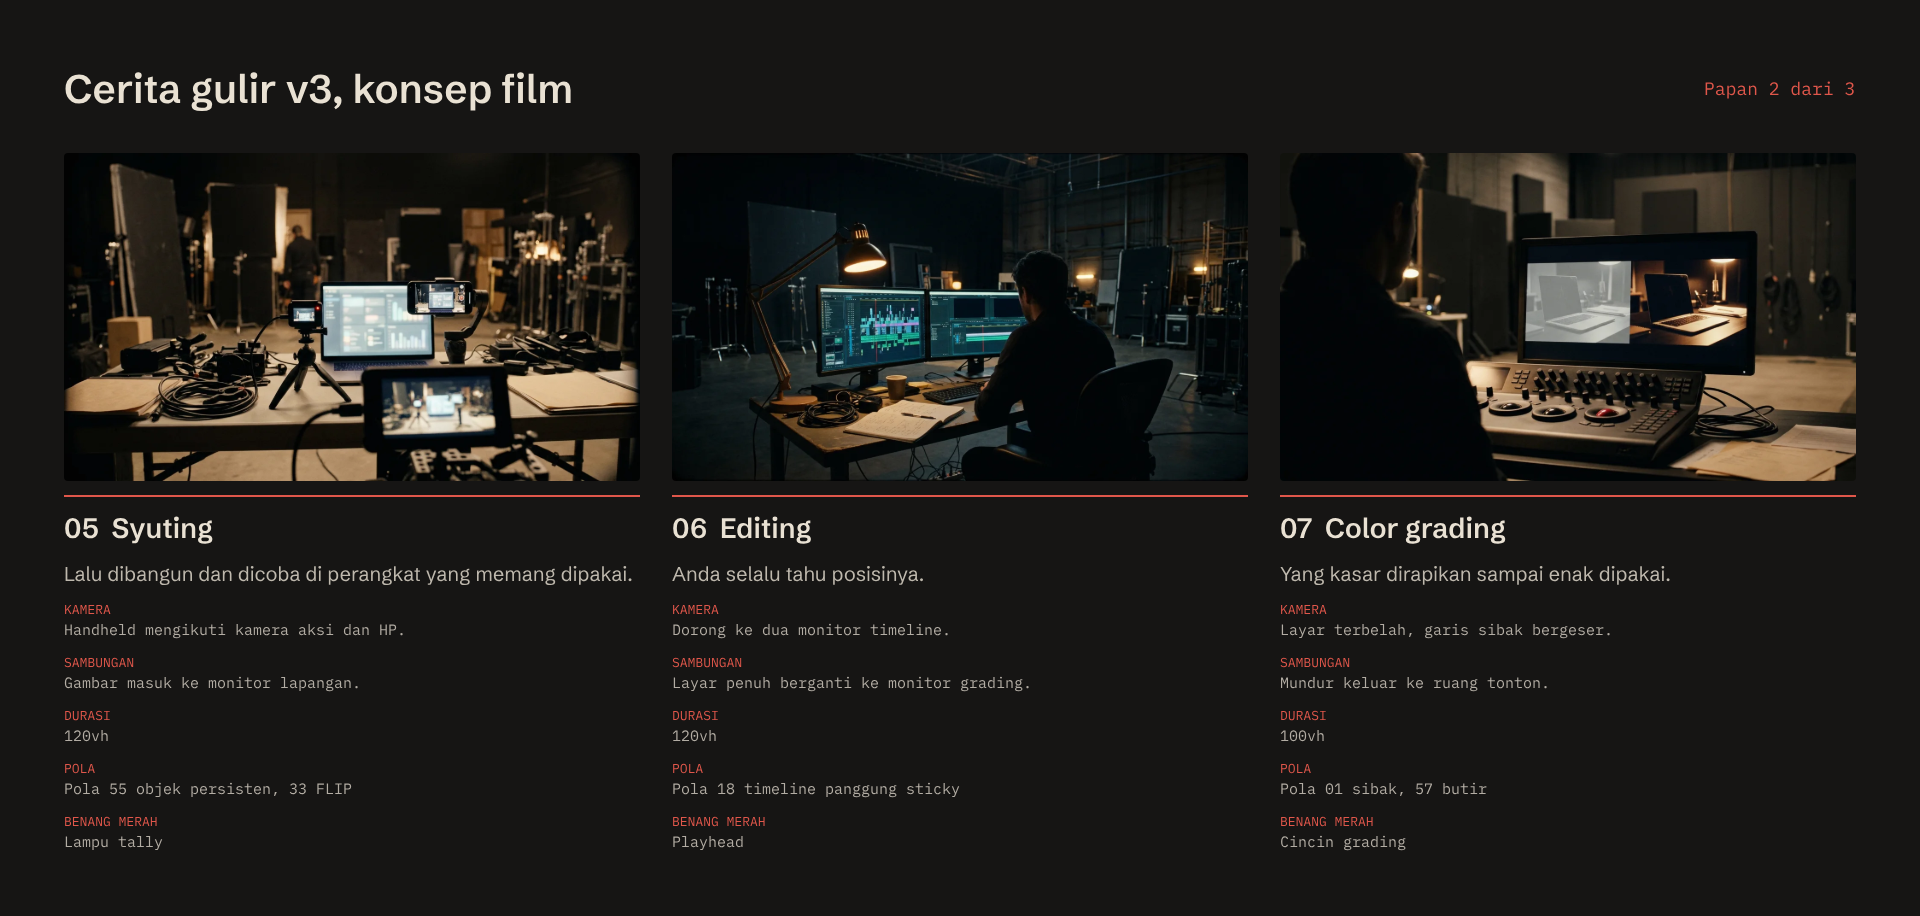
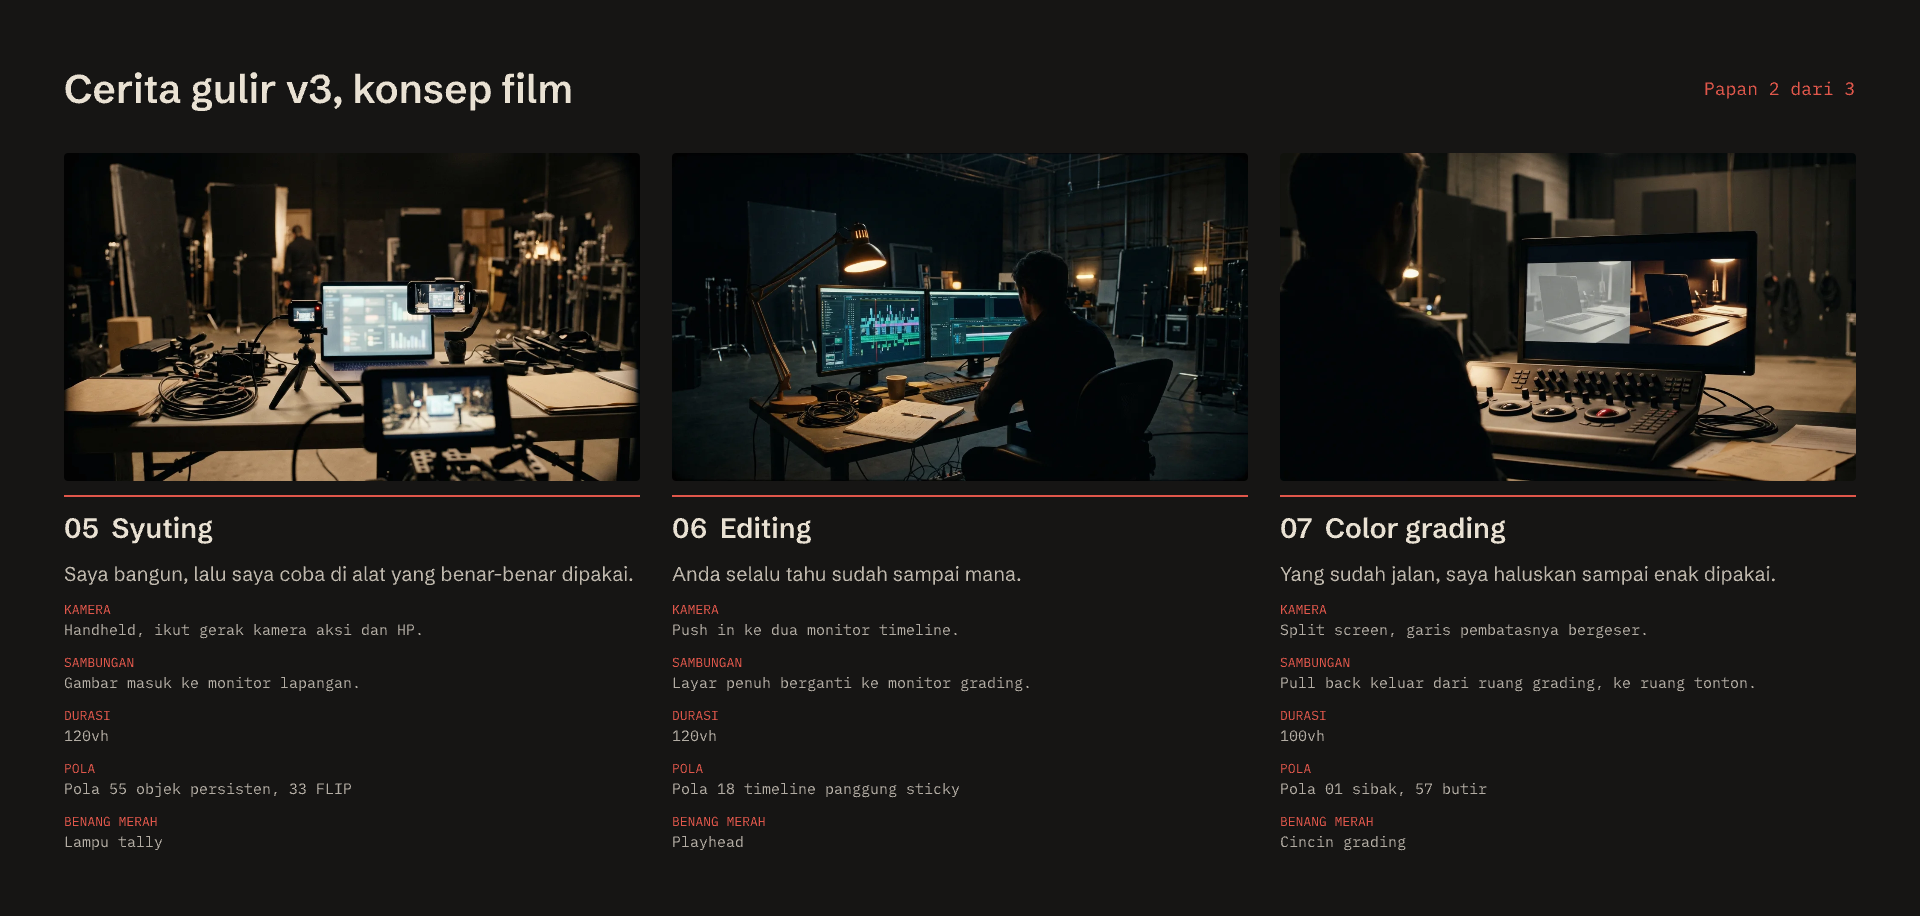
docs: teks Indonesia cerita v3 ditulis ulang supaya tidak terasa terjemahan
Judul dan isi tiap beat, keluhan di beat 1, dan catatan kamera di papan.
Tabel sebelum, sesudah, dan alasannya di desain/cerita-v3/naskah-teks.md.

diff --git a/desain/cerita-v3/animatic/naskah.js b/desain/cerita-v3/animatic/naskah.js
@@ -9,43 +9,43 @@
 
 export const BEAT = [
   { no: 1, gambar: "01-ide", judul: "Ide", vh: 120,
-    teks: "Sistem yang bagus sering berawal dari keluhan kecil.",
+    teks: "Banyak proyek saya berawal dari satu keluhan.",
     kamera: { dari: { x: 0.45, y: 0.6, s: 1.0 }, ke: { x: 0.42, y: 0.72, s: 1.35 } },
     hp: 0.62, sambung: { jenis: "zoom", ke: { x: 0.38, y: 0.78, s: 2.4 } } },
   { no: 2, gambar: "02-naskah", judul: "Naskah", vh: 100,
-    teks: "Keluhan itu saya tulis ulang jadi daftar kebutuhan yang bisa dicek satu per satu.",
+    teks: "Keluhan itu saya ubah jadi daftar yang bisa dicentang.",
     kamera: { dari: { x: 0.4, y: 0.55, s: 1.25 }, ke: { x: 0.45, y: 0.4, s: 1.05 } },
     hp: 0.4, sambung: { jenis: "naik" } },
   { no: 3, gambar: "03-storyboard", judul: "Storyboard", vh: 140,
-    teks: "Bentuknya ikut kebutuhan.",
+    teks: "Bentuknya menyesuaikan siapa yang memakai.",
     kamera: { dari: { x: 0.12, y: 0.45, s: 1.4 }, ke: { x: 0.62, y: 0.45, s: 1.15 } },
     hp: 0.3, sambung: { jenis: "portal", kotak: [0.7, 0.36, 0.06, 0.16] } },
   { no: 4, gambar: "04-set", judul: "Set dan lighting", vh: 120,
-    teks: "Yang tidak terlihat dirawat sama telitinya.",
+    teks: "Bagian yang tidak kelihatan juga saya rapikan.",
     kamera: { dari: { x: 0.5, y: 0.3, s: 1.3 }, ke: { x: 0.45, y: 0.55, s: 1.6 } },
     hp: 0.46, lampu: true, sambung: { jenis: "naik" } },
   { no: 5, gambar: "05-syuting", judul: "Syuting", vh: 120,
-    teks: "Lalu dibangun dan dicoba di perangkat yang memang dipakai.",
+    teks: "Saya bangun, lalu saya coba di alat yang benar-benar dipakai.",
     kamera: { dari: { x: 0.55, y: 0.5, s: 1.15 }, ke: { x: 0.6, y: 0.45, s: 1.3 } },
     hp: 0.55, getar: true, sambung: { jenis: "portal", kotak: [0.56, 0.67, 0.18, 0.16] } },
   { no: 6, gambar: "06-editing", judul: "Editing", vh: 120,
-    teks: "Anda selalu tahu posisinya.",
+    teks: "Anda selalu tahu sudah sampai mana.",
     kamera: { dari: { x: 0.5, y: 0.5, s: 1.0 }, ke: { x: 0.42, y: 0.38, s: 1.55 } },
     hp: 0.5, sambung: { jenis: "zoom", ke: { x: 0.42, y: 0.36, s: 3 } } },
   { no: 7, gambar: "07-grading", judul: "Color grading", vh: 100,
-    teks: "Yang kasar dirapikan sampai enak dipakai.",
+    teks: "Yang sudah jalan, saya haluskan sampai enak dipakai.",
     kamera: { dari: { x: 0.55, y: 0.4, s: 1.35 }, ke: { x: 0.55, y: 0.45, s: 1.1 } },
     hp: 0.55, sibak: true, sambung: { jenis: "mundur" } },
   { no: 8, gambar: "08-screening", judul: "Test screening", vh: 120,
-    teks: "Tetap jalan di hari yang buruk.",
+    teks: "Ada sinyal atau tidak, tetap jalan.",
     kamera: { dari: { x: 0.5, y: 0.6, s: 1.0 }, ke: { x: 0.55, y: 0.4, s: 1.45 } },
     hp: 0.55, tersendat: 0.5, sambung: { jenis: "zoom", ke: { x: 0.56, y: 0.36, s: 3.2 } } },
-  { no: 9, gambar: "09-segel", judul: "Segel dan penggandaan", vh: 120,
-    teks: "Yang bisa melihat hanya yang memang perlu. Dari satu klien ke banyak, tanpa mulai dari nol.",
+  { no: 9, gambar: "09-segel", judul: "Segel dan duplikasi", vh: 120,
+    teks: "Yang bisa membaca cuma orang yang memang berhak. Klien bertambah, sistemnya tidak perlu dibuat ulang.",
     kamera: { dari: { x: 0.62, y: 0.55, s: 1.9 }, ke: { x: 0.5, y: 0.5, s: 1.0 } },
     hp: 0.72, sambung: { jenis: "mundur" } },
   { no: 10, gambar: "10-rilis", judul: "Rilis", vh: 180,
-    teks: "Lalu jadilah sistem yang dipakai tiap hari. Sepuluh di antaranya ada di rak ini.",
+    teks: "Sampai akhirnya dipakai orang setiap hari. Sepuluh di antaranya ada di rak ini.",
     kamera: { dari: { x: 0.5, y: 0.8, s: 1.3 }, ke: { x: 0.5, y: 0.42, s: 1.2 } },
     hp: 0.5, sambung: { jenis: "tirai", ke: { x: 0.5, y: 0.42, s: 4 } } },
 ];

diff --git a/desain/cerita-v3/naskah-teks.md b/desain/cerita-v3/naskah-teks.md
@@ -1,0 +1,72 @@
+# Teks cerita v3 (versi Indonesia)
+
+11 Nov 2026, putaran 2 setelah Farrez menilai semua teks putaran 1 kaku dan terasa terjemahan
+paksa dari bahasa Inggris. Ditulis lewat skill `bahasa-lisan`: bank copy coderoach-referensi
+(`gaya.md` gaya 3 "bercerita lewat momen" dan gaya 1 "tenang dan akrab", `kerangka.md`), sapaan
+"Anda" (keputusan Farrez 4 Nov 2026, `docs/naskah-adegan.md`), istilah kerja tetap Inggris.
+
+Pembaca: pemilik usaha, perusahaan, dan recruiter yang sedang menimbang apakah Farrez bisa
+dipercaya mengurus masalah mereka. Momennya: mereka punya keluhan yang belum jelas bentuknya.
+Fakta dan cakupan klaim sama dengan `content/cerita.js`. Baris bertanda **[konfirmasi]** memuat
+klaim baru yang hanya Farrez tahu benar tidaknya.
+
+Versi EN ditulis terpisah saat build, dari isi yang sama, bukan diterjemahkan dari sini.
+
+## Judul dan isi per beat
+
+| # | Sebelum | Sesudah | Alasan |
+|---|---|---|---|
+| 1 judul | Sistem yang bagus sering berawal dari keluhan kecil. | Banyak proyek saya berawal dari satu keluhan. | Terjemahan "Good systems often start as..." (cek 5). "Sistem yang bagus" kalimat umum, tidak bisa dibuktikan salah (cek 8); proyek di rak bisa dicek. |
+| 1 isi | Ceritakan masalahnya dengan kata Anda sendiri. Bagian teknisnya urusan saya. | Ceritakan saja masalahnya pakai bahasa Anda sendiri. Soal teknis, biar saya yang pikirkan. | "dengan kata Anda sendiri" kalke "in your own words" (cek 5); "urusan saya" terdengar ketus. |
+| 2 judul | Keluhan itu saya tulis ulang jadi daftar kebutuhan yang bisa dicek satu per satu. | Keluhan itu saya ubah jadi daftar yang bisa dicentang. | 14 kata jadi 8 (cek 2). "Dicentang" bisa dibayangkan (cek 8). |
+| 2 isi | (belum ada) | Tiap poin jelas: siapa yang pakai, apa yang harus terjadi, kapan dianggap beres. Anda ikut mengecek sejak awal. **[konfirmasi]** | Dari alur kerja `alur-desain` (requirement dan acceptance criteria, sign-off klien). Perlu dipastikan berlaku untuk proyek di rak. |
+| 3 judul | Bentuknya ikut kebutuhan. | Bentuknya menyesuaikan siapa yang memakai. | Kalke "The shape follows the need" (cek 5); "kebutuhan" abstrak, "siapa yang memakai" ada orangnya (cek 8). |
+| 3 isi | Kadang jawabannya aplikasi Android yang tersambung ke kamera aksi. Kadang sistem kantor di laptop, dashboard di HP, atau alur dari iklan sampai obrolan WhatsApp. | Kadang jadinya aplikasi Android yang tersambung ke kamera aksi. Kadang sistem kantor di laptop, dashboard di HP, atau alur dari iklan sampai chat WhatsApp. | "jawabannya" kalke "the answer is"; "obrolan WhatsApp" tidak diucapkan orang, yang diucapkan "chat WA". |
+| 4 judul | Yang tidak terlihat dirawat sama telitinya. | Bagian yang tidak kelihatan juga saya rapikan. | Kalke "The parts nobody sees get the same care"; pasif tanpa pelaku (cek 3). |
+| 4 isi | Sembilan dari sepuluh proyek di rak punya halaman arsitektur. Anda bisa menelusuri satu permintaan dari layar sampai server, tanpa membuka rahasia klien. | Sembilan dari sepuluh proyek di rak punya halaman arsitektur. Di situ Anda bisa ikuti satu permintaan dari layar sampai server, tanpa ada rahasia klien yang terbuka. | "menelusuri" baku; "tanpa membuka rahasia" ambigu siapa yang membuka. |
+| 5 judul | Lalu dibangun dan dicoba di perangkat yang memang dipakai. | Saya bangun, lalu saya coba di alat yang benar-benar dipakai. | Pasif tanpa pelaku (cek 3). |
+| 5 isi | (belum ada) | YiheeCam saya uji langsung dengan kamera aksi aslinya. **[konfirmasi]** | Butuh bukti: apakah memang diuji dengan YI 4K asli. |
+| 6 judul | Anda selalu tahu posisinya. | Anda selalu tahu sudah sampai mana. | "posisinya" kalke "where things stand"; orang bilang "sudah sampai mana". |
+| 6 isi | Keputusan penting saya tulis bersama alasannya. Status juga ditulis apa adanya: d-day sudah lulus uji di testnet dan belum pernah memakai uang sungguhan. | Setiap keputusan penting saya catat, lengkap dengan alasannya. Statusnya juga saya tulis apa adanya: d-day sudah lulus uji di testnet, tapi belum pernah dipakai dengan uang sungguhan. | Pasif tanpa pelaku; "d-day ... belum pernah memakai uang" membuat aplikasinya jadi pelaku. |
+| 7 judul | Yang kasar dirapikan sampai enak dipakai. | Yang sudah jalan, saya haluskan sampai enak dipakai. | Pasif tanpa pelaku; "yang kasar" tidak jelas apa. |
+| 7 isi | (belum ada) | **[konfirmasi]** Butuh satu bukti dari proyek di rak (mis. perbaikan setelah masukan pengguna). | Tanpa bukti, beat ini cukup judul. |
+| 8 judul | Tetap jalan di hari yang buruk. | Ada sinyal atau tidak, tetap jalan. | Kalke "on a bad day" (cek 5). Sinyal hilang adalah momen yang dikenal pembaca Indonesia (cek 9) dan bisa dibuktikan lewat Jeda. |
+| 8 isi | Catatan di Jeda tetap bisa ditulis tanpa sinyal, lalu menyusul begitu sinyal kembali. Saat vendor kamera aksi berhenti merawat aplikasinya, YiheeCam menggantikannya. | Di Jeda, catatan tetap bisa ditulis walau tidak ada sinyal, lalu tersimpan sendiri begitu sinyal kembali. Waktu vendor kamera aksi berhenti merawat aplikasinya, YiheeCam yang menggantikan. | "menyusul" tidak jelas apa yang menyusul; "Saat" diganti "Waktu" yang diucapkan. |
+| 9a judul | Yang bisa melihat hanya yang memang perlu. | Yang bisa membaca cuma orang yang memang berhak. | Kalke "Only the people who need to see it"; "berhak" kata yang dipakai bank dan aplikasi lokal (cek 9). |
+| 9a isi | Di Jeda, psikolog hanya membaca catatan yang dibagikan kliennya. Di AkarKita, pohon keluarga hanya terbuka lewat undangan. | Di Jeda, psikolog cuma bisa membaca catatan yang dibagikan kliennya. Pohon keluarga di AkarKita hanya terbuka lewat undangan. | Dua "hanya" berderet; urutan kalimat kedua dibalik supaya bendanya di depan. |
+| 9b judul | Dari satu klien ke banyak, tanpa mulai dari nol. | Klien bertambah, sistemnya tidak perlu dibuat ulang. | Kalke "From one client to many, without starting over". |
+| 9b isi | ERP di software house tempat saya bekerja dipakai beberapa klien sekaligus: distribusi dan servis, asuransi kesehatan, sampai payroll perkebunan. | ERP di software house tempat saya bekerja dipakai beberapa klien sekaligus: distribusi dan servis, asuransi kesehatan, sampai payroll perkebunan. | Sudah lolos; tidak diubah. |
+| 10 judul | Lalu jadilah sistem yang dipakai tiap hari. | Sampai akhirnya dipakai orang setiap hari. | "Lalu jadilah" bergaya dongeng, kalke "And then it becomes". |
+| 10 isi | Sepuluh di antaranya ada di rak ini. | Sepuluh di antaranya ada di rak ini. | Sudah lolos. |
+
+## Keluhan di beat 1 (kertas tempel)
+
+Ditulis seperti ucapan pemakainya, karena di layar tampil sebagai catatan keluhan.
+
+| Proyek | Sebelum | Sesudah |
+|---|---|---|
+| viralytics | Kampanye, kontrak, dan invoice masih tersebar di spreadsheet dan grup WhatsApp. | Kampanye, kontrak, invoice, semuanya masih di spreadsheet dan grup WA. |
+| yiheecam | Aplikasi kamera aksinya sudah ditinggalkan vendornya. | Aplikasi kamera aksinya sudah tidak diurus vendornya. |
+| fifofun | Anggaran rumah tangga tidak pernah cocok dengan saldo di bank. | Anggaran rumah tangga tidak pernah cocok sama saldo di bank. |
+| nds-etl | Distributor yang sudah sepuh perlu tahu kapan dan berapa repeat order, cukup dari HP. | Distributor yang sudah sepuh ingin cek dari HP: kapan harus repeat order, dan berapa. |
+| akarkita | Yang muda bingung harus memanggil kerabat dengan sebutan apa. | Anak muda sering bingung harus memanggil kerabatnya apa. |
+
+## Catatan kamera di papan
+
+Istilah kru film Indonesia memang Inggris (push in, top shot, tracking, crane, handheld), jadi
+dibiarkan. Versi putaran 1 menerjemahkannya ("dorong", "menyusur"), dan itu yang terasa aneh.
+
+| # | Sebelum | Sesudah |
+|---|---|---|
+| 1 | Dorong pelan di ketinggian mata ke meja sutradara. | Push in pelan ke meja sutradara, setinggi mata. |
+| 2 | Top-down di atas mesin ketik. | Top shot tepat di atas mesin ketik. |
+| 3 | Menyusur dinding panel. | Tracking menyusuri dinding storyboard. |
+| 4 | Crane turun ke set, lampu menyala satu per satu. | Crane down ke set, lampu nyala satu-satu. |
+| 5 | Handheld mengikuti kamera aksi dan HP. | Handheld, ikut gerak kamera aksi dan HP. |
+| 6 | Dorong ke dua monitor timeline. | Push in ke dua monitor timeline. |
+| 7 | Layar terbelah, garis sibak bergeser. | Split screen, garis pembatasnya bergeser. |
+| 8 | Dari baris belakang, menembus layar. | Dari kursi paling belakang, lalu masuk ke layar. |
+| 9 | Makro ke segel, lalu mundur ke jalur penggandaan. | Close-up makro di segel, lalu pull back ke mesin duplikasi. |
+| 10 | Ikuti satu kotak di ban berjalan. | Ikuti satu kotak CD di conveyor. |
+
+Judul beat 9 menjadi "Segel dan duplikasi" ("penggandaan" tidak dipakai kru).

diff --git a/desain/cerita-v3/storyboard/papan.md b/desain/cerita-v3/storyboard/papan.md
@@ -15,18 +15,18 @@ Kamera satu jalur tanpa potongan (pola 53 camera path) menyusuri soundstage.
 Total sekitar 1.240vh di desktop, 900vh di HP. Kanvas three.js dipin sepanjang cerita; teks bab
 muncul di sisi kiri (desktop) atau bawah (HP).
 
-| # | Beat | Durasi desktop | Pola bank | Benang merah | Teks bab (Anda) | Status teks |
+| # | Beat | Durasi desktop | Pola bank | Benang merah | Teks bab (Anda), lihat naskah-teks.md | Status teks |
 |---|---|---|---|---|---|---|
-| 1 | Ide | 120vh | 89 coretan jadi benda | pensil merah | Sistem yang bagus sering berawal dari keluhan kecil. | ada (bab demo) |
-| 2 | Naskah | 100vh | 88 catatan jadi rencana | pita pembatas | Keluhan itu saya tulis ulang jadi daftar kebutuhan yang bisa dicek satu per satu. | draf, perlu bukti |
-| 3 | Storyboard | 140vh | 86 gambar kerja jadi barang | benang di dinding | Bentuknya ikut kebutuhan. | ada (bab aransemen) |
-| 4 | Set dan lighting | 120vh | 53 camera path (crane) | kabel merah | Yang tidak terlihat dirawat sama telitinya. | ada (bab infrastruktur) |
-| 5 | Syuting | 120vh | 55 objek persisten, 33 FLIP ke monitor | lampu tally | Lalu dibangun dan dicoba di perangkat yang memang dipakai. | draf, perlu bukti |
-| 6 | Editing | 120vh | 18 timeline panggung sticky | playhead | Anda selalu tahu posisinya. | ada (bab transparansi) |
-| 7 | Grading | 100vh | 01 sibak, 57 butir dan distorsi | cincin grading | Yang kasar dirapikan sampai enak dipakai. | draf, perlu bukti |
-| 8 | Test screening | 120vh | 36 portal zoom-through | lampu merah | Tetap jalan di hari yang buruk. | ada (bab keandalan) |
-| 9 | Segel dan penggandaan | 120vh | 56 instanced field | segel lilin | Yang bisa melihat hanya yang memang perlu. Dari satu klien ke banyak, tanpa mulai dari nol. | ada (bab keamanan, skala) |
-| 10 | Rilis | 180vh | 40 traveling hero object, 36 portal | tirai rak | Lalu jadilah sistem yang dipakai tiap hari. Sepuluh di antaranya ada di rak ini. | ada (bab rak) |
+| 1 | Ide | 120vh | 89 coretan jadi benda | pensil merah | Banyak proyek saya berawal dari satu keluhan. | ada (bab demo) |
+| 2 | Naskah | 100vh | 88 catatan jadi rencana | pita pembatas | Keluhan itu saya ubah jadi daftar yang bisa dicentang. | draf, perlu bukti |
+| 3 | Storyboard | 140vh | 86 gambar kerja jadi barang | benang di dinding | Bentuknya menyesuaikan siapa yang memakai. | ada (bab aransemen) |
+| 4 | Set dan lighting | 120vh | 53 camera path (crane) | kabel merah | Bagian yang tidak kelihatan juga saya rapikan. | ada (bab infrastruktur) |
+| 5 | Syuting | 120vh | 55 objek persisten, 33 FLIP ke monitor | lampu tally | Saya bangun, lalu saya coba di alat yang benar-benar dipakai. | draf, perlu bukti |
+| 6 | Editing | 120vh | 18 timeline panggung sticky | playhead | Anda selalu tahu sudah sampai mana. | ada (bab transparansi) |
+| 7 | Grading | 100vh | 01 sibak, 57 butir dan distorsi | cincin grading | Yang sudah jalan, saya haluskan sampai enak dipakai. | draf, perlu bukti |
+| 8 | Test screening | 120vh | 36 portal zoom-through | lampu merah | Ada sinyal atau tidak, tetap jalan. | ada (bab keandalan) |
+| 9 | Segel dan duplikasi | 120vh | 56 instanced field | segel lilin | Yang bisa membaca cuma orang yang memang berhak. Klien bertambah, sistemnya tidak perlu dibuat ulang. | ada (bab keamanan, skala) |
+| 10 | Rilis | 180vh | 40 traveling hero object, 36 portal | tirai rak | Sampai akhirnya dipakai orang setiap hari. Sepuluh di antaranya ada di rak ini. | ada (bab rak) |
 
 Anti-resep yang dihindari: A5 (diorama, fly-through, dan rack focus sekaligus). DOF hanya dipakai
 di beat makro (1, 9), bukan saat kamera terbang.
@@ -35,13 +35,13 @@ di beat makro (1, 9), bukan saat kamera terbang.
 
 | # | Kamera | Sambungan ke beat berikut |
 |---|---|---|
-| 1 | Dorong pelan di ketinggian mata ke meja sutradara | Kertas coretan ditarik ke mesin ketik |
-| 2 | Top-down di atas mesin ketik | Halaman beterbangan ke dinding |
-| 3 | Menyusur dinding panel | Panel terakhir terbuka jadi set nyata |
-| 4 | Crane turun dari atas ke set, lampu menyala satu per satu | Kamera turun ke ketinggian set |
-| 5 | Handheld mengikuti kamera aksi dan HP | Gambar masuk ke monitor lapangan |
-| 6 | Dorong ke dua monitor timeline | Layar penuh berganti ke monitor grading |
-| 7 | Layar terbelah, garis sibak bergeser | Mundur keluar ruang grading ke ruang tonton |
-| 8 | Dari baris belakang, menembus layar | Sorot proyektor jatuh ke kaleng film |
-| 9 | Makro ke segel, lalu mundur ke jalur penggandaan | Satu cakram lepas dari tumpukan |
-| 10 | Ikuti satu kotak di ban berjalan | Tembus tirai rak ke seksi rak proyek |
+| 1 | Push in pelan ke meja sutradara, setinggi mata | Kertas coretan ditarik ke mesin ketik |
+| 2 | Top shot tepat di atas mesin ketik | Halaman beterbangan ke dinding |
+| 3 | Tracking menyusuri dinding storyboard | Panel terakhir terbuka jadi set nyata |
+| 4 | Crane down ke set, lampu nyala satu-satu | Kamera turun ke ketinggian set |
+| 5 | Handheld, ikut gerak kamera aksi dan HP | Gambar masuk ke monitor lapangan |
+| 6 | Push in ke dua monitor timeline | Layar penuh berganti ke monitor grading |
+| 7 | Split screen, garis pembatasnya bergeser | Pull back keluar dari ruang grading, ke ruang tonton |
+| 8 | Dari kursi paling belakang, lalu masuk ke layar | Sorot proyektor jatuh ke kaleng film |
+| 9 | Close-up makro di segel, lalu pull back ke mesin duplikasi | Satu cakram lepas dari tumpukan |
+| 10 | Ikuti satu kotak CD di conveyor | Masuk lewat tirai rak, sampai ke seksi rak proyek |
